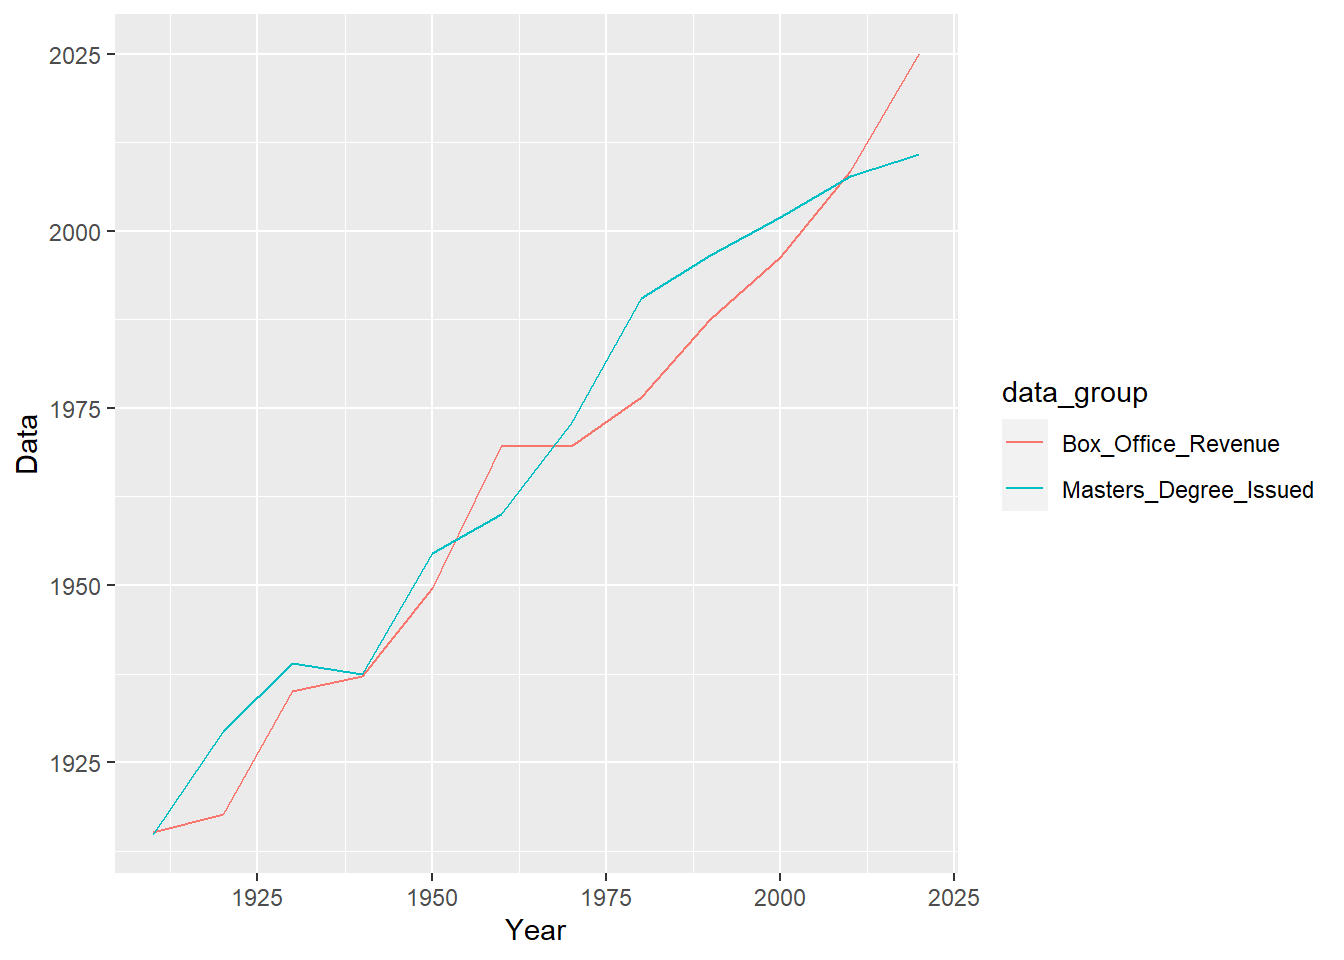
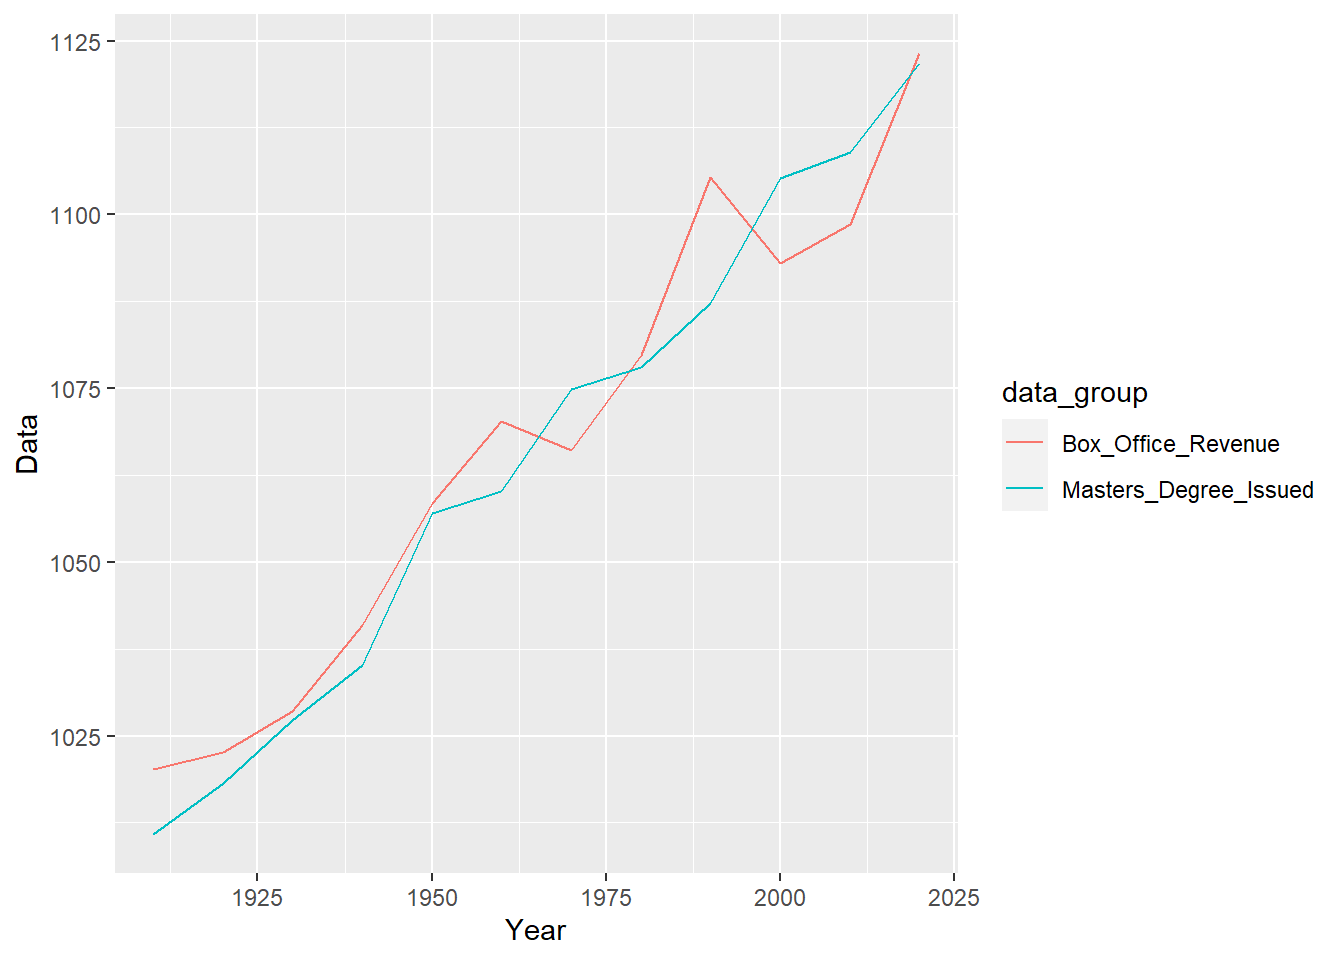
Assignment 6
Editing the causality assignment

diff --git a/_site/content/01_journal/04_causality.html b/_site/content/01_journal/04_causality.html
@@ -230,7 +230,7 @@ pre > code.sourceCode > span > a:first-child::before { text-decoration: underlin
 <p>The correlation between the two variables is spurious.</p>
 <div class="quarto-figure quarto-figure-center">
 <figure class="figure">
-<p><a href="../../assets/img/04 Causality/Masters Degrees vs Box Office Revenue.png" class="lightbox" title="Spurious Correlation between Master’s Degrees &amp; Box Office Revenue" data-gallery="quarto-lightbox-gallery-1"><img src="../../assets/img/04 Causality/Masters Degrees vs Box Office Revenue.png" class="img-fluid figure-img"></a></p>
+<p><a href="../../assets/img/04 Causality/Masters Degrees vs Box Office Revenue.png" class="lightbox" data-gallery="quarto-lightbox-gallery-1" title="Spurious Correlation between Master’s Degrees &amp; Box Office Revenue"><img src="../../assets/img/04 Causality/Masters Degrees vs Box Office Revenue.png" class="img-fluid figure-img"></a></p>
 <figcaption class="figure-caption">Spurious Correlation between Master’s Degrees &amp; Box Office Revenue</figcaption>
 </figure>
 </div>
@@ -239,7 +239,7 @@ pre > code.sourceCode > span > a:first-child::before { text-decoration: underlin
 <section id="data-fabrication-and-visualization" class="level3">
 <h3 class="anchored" data-anchor-id="data-fabrication-and-visualization">Data Fabrication and Visualization:</h3>
 <p>By fabricating data similar to the previous one using a linear and a square root function with normally distributed noise, we would get a similar plot for this spurious correlation (because the noise used is random the plot and data will slightly change at each run but the concept and the plot shape are the same).</p>
-<div class="cell" data-hash="04_causality_cache/html/unnamed-chunk-1_10219553ec235eaefd72be1085ee3f74">
+<div class="cell" data-hash="04_causality_cache/html/unnamed-chunk-1_d039fd71730ca42edbd4371799c67617">
 <div class="sourceCode cell-code" id="cb1"><pre class="sourceCode numberSource r number-lines code-with-copy"><code class="sourceCode r"><span id="cb1-1"><a href="#cb1-1"></a><span class="co">#Load Library:</span></span>
 <span id="cb1-2"><a href="#cb1-2"></a><span class="fu">library</span>(tidyverse)  </span>
 <span id="cb1-3"><a href="#cb1-3"></a></span>
@@ -247,20 +247,21 @@ pre > code.sourceCode > span > a:first-child::before { text-decoration: underlin
 <span id="cb1-5"><a href="#cb1-5"></a>first_year <span class="ot">&lt;-</span> <span class="dv">1910</span></span>
 <span id="cb1-6"><a href="#cb1-6"></a>last_year <span class="ot">&lt;-</span> <span class="dv">2020</span> </span>
 <span id="cb1-7"><a href="#cb1-7"></a>years <span class="ot">&lt;-</span> <span class="fu">seq</span>(first_year,last_year, <span class="at">by=</span><span class="dv">10</span>)</span>
-<span id="cb1-8"><a href="#cb1-8"></a>n <span class="ot">&lt;-</span> <span class="fu">length</span>(years)</span>
-<span id="cb1-9"><a href="#cb1-9"></a>Masters_mean <span class="ot">&lt;-</span> <span class="dv">0</span></span>
-<span id="cb1-10"><a href="#cb1-10"></a>Masters_sd <span class="ot">&lt;-</span> <span class="dv">5</span></span>
-<span id="cb1-11"><a href="#cb1-11"></a>Box_Office_mean <span class="ot">&lt;-</span> <span class="dv">0</span></span>
-<span id="cb1-12"><a href="#cb1-12"></a>Box_Office_sd <span class="ot">&lt;-</span> <span class="dv">20000</span></span>
-<span id="cb1-13"><a href="#cb1-13"></a>Masters_data <span class="ot">&lt;-</span> years<span class="sc">+</span><span class="fu">rnorm</span>(n, Masters_mean, Masters_sd)</span>
-<span id="cb1-14"><a href="#cb1-14"></a>BoxOffice_data <span class="ot">&lt;-</span> <span class="fu">sqrt</span>((years)<span class="sc">^</span><span class="dv">2</span><span class="sc">+</span><span class="fu">rnorm</span>(n, Box_Office_mean, Box_Office_sd))</span>
-<span id="cb1-15"><a href="#cb1-15"></a>data <span class="ot">&lt;-</span> <span class="fu">data.frame</span>(<span class="at">Year=</span><span class="fu">rep</span>(years, <span class="at">times=</span><span class="dv">2</span>), <span class="at">data_group=</span> <span class="fu">rep</span>(<span class="fu">c</span>(<span class="st">"Masters_Degree_Issued"</span>,<span class="st">"Box_Office_Revenue"</span>),<span class="at">each=</span>n) ,<span class="at">Data=</span><span class="fu">c</span>(Masters_data,BoxOffice_data) )</span>
-<span id="cb1-16"><a href="#cb1-16"></a>data</span></code><button title="Copy to Clipboard" class="code-copy-button"><i class="bi"></i></button></pre></div>
+<span id="cb1-8"><a href="#cb1-8"></a>rand_var<span class="ot">&lt;-</span><span class="dv">900</span></span>
+<span id="cb1-9"><a href="#cb1-9"></a>n <span class="ot">&lt;-</span> <span class="fu">length</span>(years)</span>
+<span id="cb1-10"><a href="#cb1-10"></a>Masters_mean <span class="ot">&lt;-</span> <span class="dv">0</span></span>
+<span id="cb1-11"><a href="#cb1-11"></a>Masters_sd <span class="ot">&lt;-</span> <span class="dv">5</span></span>
+<span id="cb1-12"><a href="#cb1-12"></a>Box_Office_mean <span class="ot">&lt;-</span> <span class="dv">0</span></span>
+<span id="cb1-13"><a href="#cb1-13"></a>Box_Office_sd <span class="ot">&lt;-</span> <span class="dv">20000</span></span>
+<span id="cb1-14"><a href="#cb1-14"></a>Masters_data <span class="ot">&lt;-</span> years<span class="sc">-</span>rand_var<span class="sc">+</span><span class="fu">rnorm</span>(n, Masters_mean, Masters_sd)</span>
+<span id="cb1-15"><a href="#cb1-15"></a>BoxOffice_data <span class="ot">&lt;-</span> <span class="fu">sqrt</span>((years<span class="sc">-</span>rand_var)<span class="sc">^</span><span class="dv">2</span><span class="sc">+</span><span class="fu">rnorm</span>(n, Box_Office_mean, Box_Office_sd))</span>
+<span id="cb1-16"><a href="#cb1-16"></a>data <span class="ot">&lt;-</span> <span class="fu">data.frame</span>(<span class="at">Year=</span><span class="fu">rep</span>(years, <span class="at">times=</span><span class="dv">2</span>), <span class="at">data_group=</span> <span class="fu">rep</span>(<span class="fu">c</span>(<span class="st">"Masters_Degree_Issued"</span>,<span class="st">"Box_Office_Revenue"</span>),<span class="at">each=</span>n) ,<span class="at">Data=</span><span class="fu">c</span>(Masters_data,BoxOffice_data) )</span>
+<span id="cb1-17"><a href="#cb1-17"></a>data</span></code><button title="Copy to Clipboard" class="code-copy-button"><i class="bi"></i></button></pre></div>
 <div class="cell-output-display">
 
 <div data-pagedtable="false">
   <script data-pagedtable-source="" type="application/json">
-{"columns":[{"label":["Year"],"name":[1],"type":["dbl"],"align":["right"]},{"label":["data_group"],"name":[2],"type":["chr"],"align":["left"]},{"label":["Data"],"name":[3],"type":["dbl"],"align":["right"]}],"data":[{"1":"1910","2":"Masters_Degree_Issued","3":"1914.787"},{"1":"1920","2":"Masters_Degree_Issued","3":"1929.406"},{"1":"1930","2":"Masters_Degree_Issued","3":"1939.013"},{"1":"1940","2":"Masters_Degree_Issued","3":"1937.373"},{"1":"1950","2":"Masters_Degree_Issued","3":"1954.471"},{"1":"1960","2":"Masters_Degree_Issued","3":"1959.993"},{"1":"1970","2":"Masters_Degree_Issued","3":"1972.885"},{"1":"1980","2":"Masters_Degree_Issued","3":"1990.542"},{"1":"1990","2":"Masters_Degree_Issued","3":"1996.660"},{"1":"2000","2":"Masters_Degree_Issued","3":"2001.985"},{"1":"2010","2":"Masters_Degree_Issued","3":"2007.692"},{"1":"2020","2":"Masters_Degree_Issued","3":"2010.917"},{"1":"1910","2":"Box_Office_Revenue","3":"1915.122"},{"1":"1920","2":"Box_Office_Revenue","3":"1917.711"},{"1":"1930","2":"Box_Office_Revenue","3":"1935.020"},{"1":"1940","2":"Box_Office_Revenue","3":"1937.088"},{"1":"1950","2":"Box_Office_Revenue","3":"1949.573"},{"1":"1960","2":"Box_Office_Revenue","3":"1969.623"},{"1":"1970","2":"Box_Office_Revenue","3":"1969.616"},{"1":"1980","2":"Box_Office_Revenue","3":"1976.570"},{"1":"1990","2":"Box_Office_Revenue","3":"1987.565"},{"1":"2000","2":"Box_Office_Revenue","3":"1996.334"},{"1":"2010","2":"Box_Office_Revenue","3":"2008.511"},{"1":"2020","2":"Box_Office_Revenue","3":"2025.088"}],"options":{"columns":{"min":{},"max":[10]},"rows":{"min":[10],"max":[10]},"pages":{}}}
+{"columns":[{"label":["Year"],"name":[1],"type":["dbl"],"align":["right"]},{"label":["data_group"],"name":[2],"type":["chr"],"align":["left"]},{"label":["Data"],"name":[3],"type":["dbl"],"align":["right"]}],"data":[{"1":"1910","2":"Masters_Degree_Issued","3":"1010.786"},{"1":"1920","2":"Masters_Degree_Issued","3":"1018.155"},{"1":"1930","2":"Masters_Degree_Issued","3":"1027.207"},{"1":"1940","2":"Masters_Degree_Issued","3":"1035.164"},{"1":"1950","2":"Masters_Degree_Issued","3":"1057.041"},{"1":"1960","2":"Masters_Degree_Issued","3":"1060.146"},{"1":"1970","2":"Masters_Degree_Issued","3":"1074.843"},{"1":"1980","2":"Masters_Degree_Issued","3":"1077.972"},{"1":"1990","2":"Masters_Degree_Issued","3":"1087.240"},{"1":"2000","2":"Masters_Degree_Issued","3":"1105.293"},{"1":"2010","2":"Masters_Degree_Issued","3":"1108.893"},{"1":"2020","2":"Masters_Degree_Issued","3":"1121.799"},{"1":"1910","2":"Box_Office_Revenue","3":"1020.154"},{"1":"1920","2":"Box_Office_Revenue","3":"1022.631"},{"1":"1930","2":"Box_Office_Revenue","3":"1028.588"},{"1":"1940","2":"Box_Office_Revenue","3":"1040.869"},{"1":"1950","2":"Box_Office_Revenue","3":"1058.523"},{"1":"1960","2":"Box_Office_Revenue","3":"1070.300"},{"1":"1970","2":"Box_Office_Revenue","3":"1066.055"},{"1":"1980","2":"Box_Office_Revenue","3":"1079.775"},{"1":"1990","2":"Box_Office_Revenue","3":"1105.395"},{"1":"2000","2":"Box_Office_Revenue","3":"1093.043"},{"1":"2010","2":"Box_Office_Revenue","3":"1098.610"},{"1":"2020","2":"Box_Office_Revenue","3":"1123.182"}],"options":{"columns":{"min":{},"max":[10]},"rows":{"min":[10],"max":[10]},"pages":{}}}
   </script>
 </div>
 </div>
@@ -628,7 +629,7 @@ window.document.addEventListener("DOMContentLoaded", function (event) {
 });
 </script>
 </div> <!-- /content -->
-<script>var lightboxQuarto = GLightbox({"closeEffect":"zoom","openEffect":"zoom","loop":true,"selector":".lightbox","descPosition":"bottom"});</script>
+<script>var lightboxQuarto = GLightbox({"descPosition":"bottom","selector":".lightbox","closeEffect":"zoom","loop":true,"openEffect":"zoom"});</script>
 
 
 
